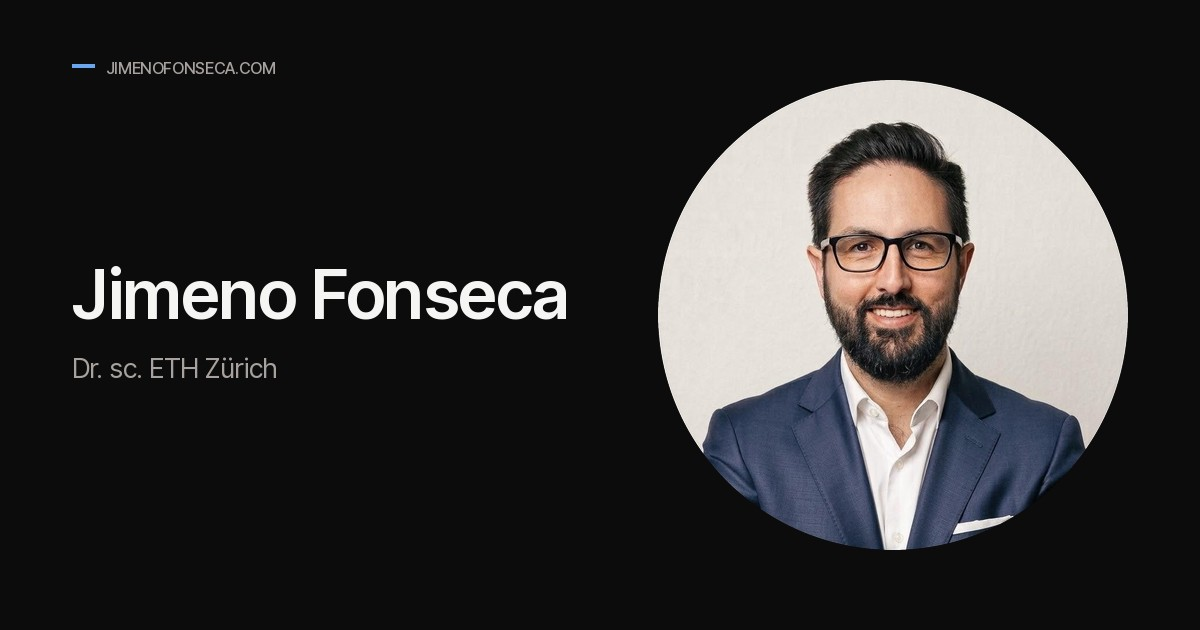
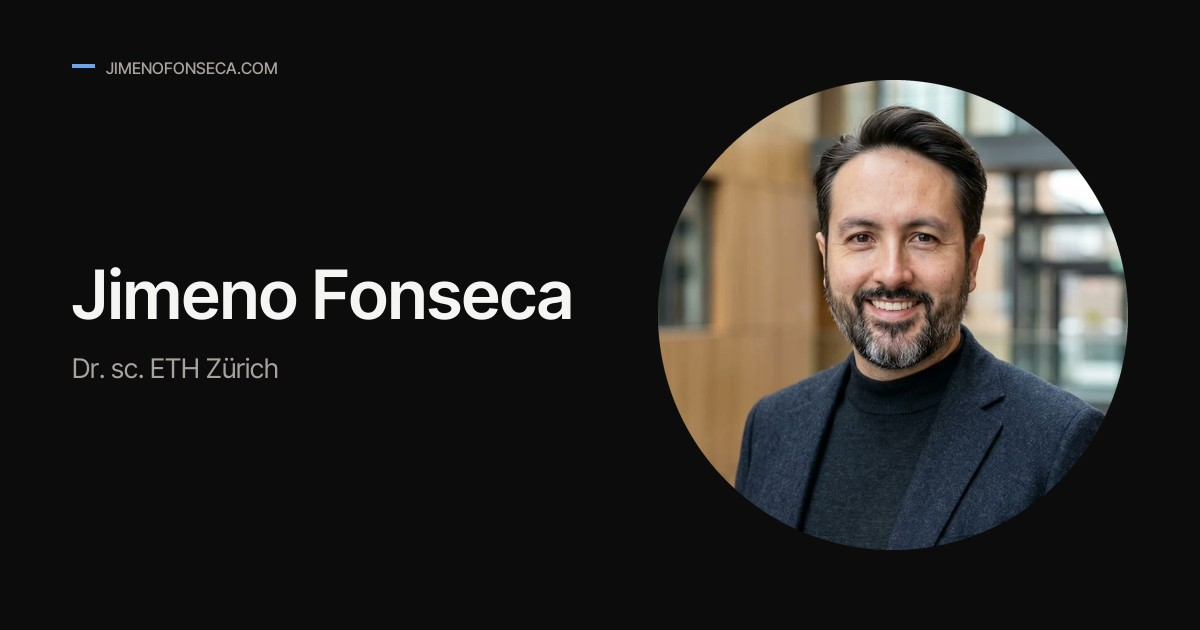
Bust portrait cache and regenerate share card for new photo

diff --git a/de/index.html b/de/index.html
@@ -153,7 +153,7 @@
           </div>
         </div>
         <figure class="hero-figure">
-          <img src="/assets/portrait.jpg?v=4" alt="Jimeno Fonseca, portrait."
+          <img src="/assets/portrait.jpg?v=5" alt="Jimeno Fonseca, portrait."
                width="809" height="809" loading="eager" fetchpriority="high" decoding="async" />
         </figure>
       </section>

diff --git a/index.html b/index.html
@@ -153,7 +153,7 @@
           </div>
         </div>
         <figure class="hero-figure">
-          <img src="/assets/portrait.jpg?v=4" alt="Jimeno Fonseca, portrait."
+          <img src="/assets/portrait.jpg?v=5" alt="Jimeno Fonseca, portrait."
                width="809" height="809" loading="eager" fetchpriority="high" decoding="async" />
         </figure>
       </section>

diff --git a/CLAUDE.md b/CLAUDE.md
@@ -812,8 +812,10 @@ and ~7.5s of script evaluation on a mid-range phone.
 
 `assets/portrait.jpg` — **809x809, shown as a circle.** No caption, no JS.
 
-⚠ **The hero portrait is round because the source is.** The current file is a
-circular avatar on a pure-black field. In the old 3:4 box, `object-fit:
+⚠ **The hero portrait is round by CSS.** The current file (Oct 2026) is a
+square-cropped photo with a real background; the circle is the
+`border-radius`. The previous file was a circular avatar on a pure-black
+field, which is where the round treatment came from. In the old 3:4 box, `object-fit:
 cover` cropped 25% off its sides *and* left the black corners showing, which
 is glaring against the light palette. `.hero-figure img` therefore carries
 `aspect-ratio: 1/1` + `border-radius: 50%`, which clips the corners away
@@ -928,7 +930,7 @@ classes that look dead to a grep — `lightbox`, `lightbox-caption`,
   minutes. That bit us the moment the hyperjump was deleted: the code was
   gone from `main`, Pages had deployed, and the effect still played from
   cache. Currently `style.css?v=16` and `app.js?v=4`; the portrait carries
-  its own `?v=4`. (This line has been stale before — check the pages, not
+  its own `?v=5`. (This line has been stale before — check the pages, not
   this sentence, before assuming a number.)
 
   There is **no pre-commit hook** doing this any more — the old one existed
